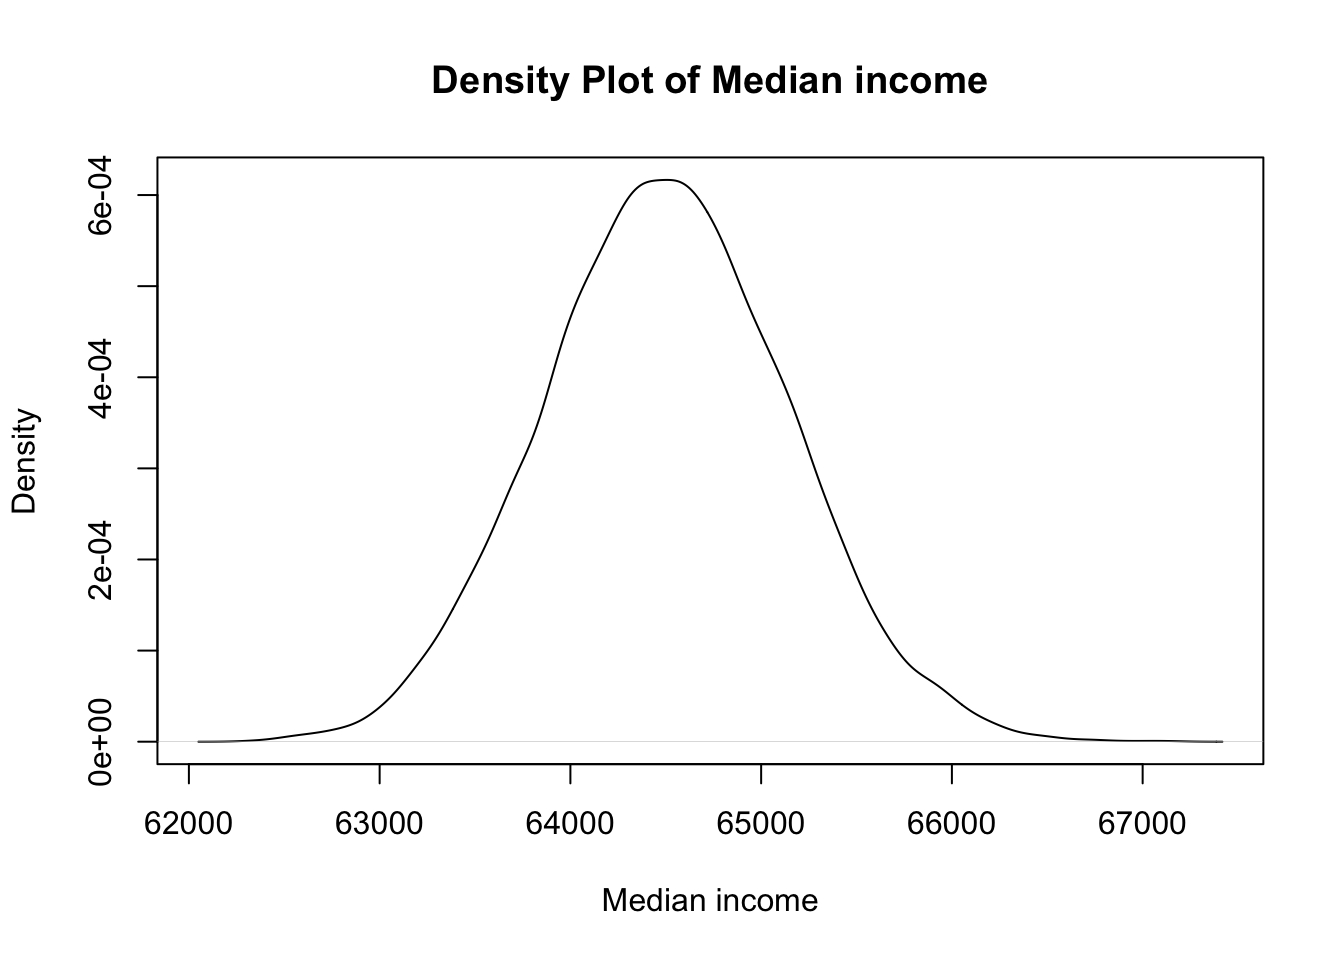
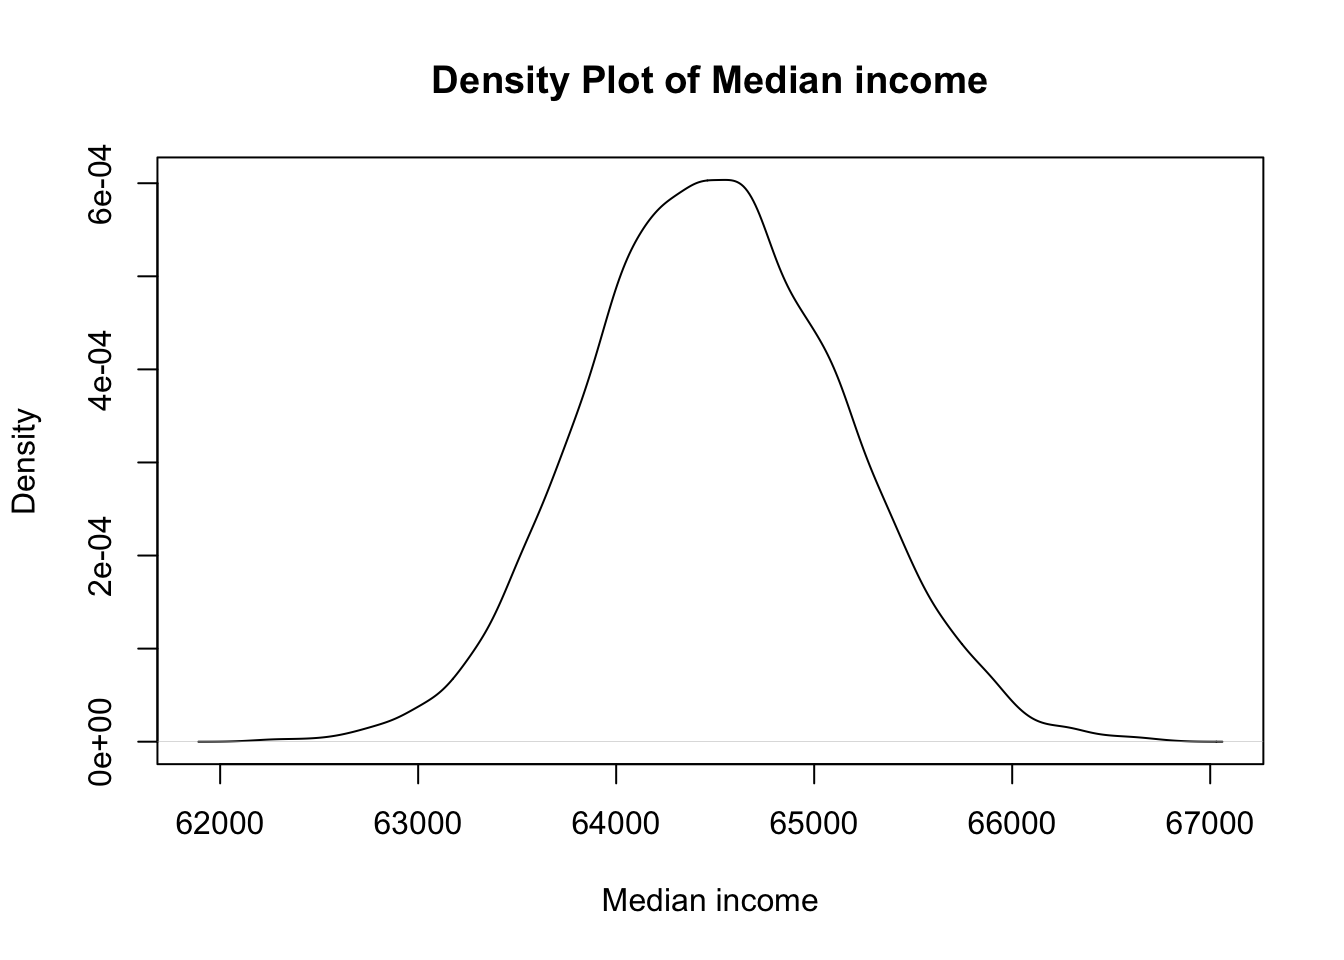
poem

diff --git a/docs/posts/montecarlo.html b/docs/posts/montecarlo.html
@@ -6,7 +6,7 @@
 
 <meta name="viewport" content="width=device-width, initial-scale=1.0, user-scalable=yes">
 
-<meta name="dcterms.date" content="2024-12-13">
+<meta name="dcterms.date" content="2024-12-14">
 
 <title>Income distribution – knotes</title>
 <style>
@@ -2106,7 +2106,7 @@ window.Quarto = {
     <div>
     <div class="quarto-title-meta-heading">Published</div>
     <div class="quarto-title-meta-contents">
-      <p class="date">December 13, 2024</p>
+      <p class="date">December 14, 2024</p>
     </div>
   </div>
   
@@ -2244,7 +2244,7 @@ Income distribution is not normal
 </details>
 <div class="cell-output cell-output-stdout">
 <pre><code>     Min.   1st Qu.    Median      Mean   3rd Qu.      Max. 
-2.082e+05 2.961e+05 3.425e+05 8.729e+05 4.345e+05 3.030e+09 </code></pre>
+2.064e+05 2.970e+05 3.453e+05 1.008e+06 4.359e+05 4.032e+09 </code></pre>
 </div>
 <details open="" class="code-fold">
 <summary>Code</summary>
@@ -2252,7 +2252,7 @@ Income distribution is not normal
 </details>
 <div class="cell-output cell-output-stdout">
 <pre><code>   Min. 1st Qu.  Median    Mean 3rd Qu.    Max. 
-  62324   64070   64500   64503   64932   67144 </code></pre>
+  62165   64058   64489   64500   64936   66787 </code></pre>
 </div>
 <details open="" class="code-fold">
 <summary>Code</summary>
@@ -2260,7 +2260,7 @@ Income distribution is not normal
 </details>
 <div class="cell-output cell-output-stdout">
 <pre><code>     Min.   1st Qu.    Median      Mean   3rd Qu.      Max. 
-9.543e+05 3.351e+06 5.559e+06 5.793e+07 1.157e+07 3.029e+11 </code></pre>
+9.073e+05 3.363e+06 5.747e+06 7.136e+07 1.180e+07 4.031e+11 </code></pre>
 </div>
 </div>
 </section>

diff --git a/docs/posts.html b/docs/posts.html
@@ -2241,9 +2241,9 @@ Categories
 <span class="listing-categories">technology, ev</span>
 </td>
 </tr>
-<tr data-index="5" data-categories="TW9udGUlMjBDYXJsbyUyMHNpbXVsYXRpb24lMkNlY29ub21pY3M=" data-listing-date-sort="1734028200000" data-listing-file-modified-sort="1716203287606" data-listing-date-modified-sort="NaN" data-listing-reading-time-sort="8" data-listing-word-count-sort="1412" data-listing-title-sort="Income distribution" data-listing-filename-sort="montecarlo.qmd">
+<tr data-index="5" data-categories="TW9udGUlMjBDYXJsbyUyMHNpbXVsYXRpb24lMkNlY29ub21pY3M=" data-listing-date-sort="1734114600000" data-listing-file-modified-sort="1716203287606" data-listing-date-modified-sort="NaN" data-listing-reading-time-sort="8" data-listing-word-count-sort="1412" data-listing-title-sort="Income distribution" data-listing-filename-sort="montecarlo.qmd">
 <td>
-<span class="listing-date">Dec 13, 2024</span>
+<span class="listing-date">Dec 14, 2024</span>
 </td>
 <td>
 <a href="./posts/montecarlo.html" class="title listing-title">Income distribution</a>
@@ -2255,7 +2255,7 @@ Categories
 <span class="listing-categories">Monte Carlo simulation, economics</span>
 </td>
 </tr>
-<tr data-index="6" data-listing-file-modified-sort="1734078580840" data-listing-reading-time-sort="1" data-listing-word-count-sort="34" data-listing-title-sort="Just stuck" data-listing-filename-sort="pm.qmd">
+<tr data-index="6" data-listing-file-modified-sort="1734140389483" data-listing-reading-time-sort="1" data-listing-word-count-sort="34" data-listing-title-sort="Just stuck" data-listing-filename-sort="pm.qmd">
 <td>
 <span class="listing-date">&nbsp;</span>
 </td>

diff --git a/docs/Catallactics/Personal/pricing.html b/docs/Catallactics/Personal/pricing.html
@@ -6,7 +6,7 @@
 
 <meta name="viewport" content="width=device-width, initial-scale=1.0, user-scalable=yes">
 
-<meta name="dcterms.date" content="2024-12-13">
+<meta name="dcterms.date" content="2024-12-14">
 
 <title>Hedge pricing – knotes</title>
 <style>
@@ -2062,7 +2062,7 @@ cookieconsent.run({
     <div>
     <div class="quarto-title-meta-heading">Published</div>
     <div class="quarto-title-meta-contents">
-      <p class="date">December 13, 2024</p>
+      <p class="date">December 14, 2024</p>
     </div>
   </div>
   
@@ -2108,7 +2108,7 @@ cookieconsent.run({
 <span id="cb2-3"><a href="#cb2-3" aria-hidden="true" tabindex="-1"></a>closing_price</span></code><button title="Copy to Clipboard" class="code-copy-button"><i class="bi"></i></button></pre></div>
 </details>
 <div class="cell-output cell-output-stdout">
-<pre><code>[1] 24548.7</code></pre>
+<pre><code>[1] 24768.3</code></pre>
 </div>
 </div>
 </section>

diff --git a/docs/Biomedical/Research Methodology/wrangling.html b/docs/Biomedical/Research Methodology/wrangling.html
@@ -3538,11 +3538,11 @@ Record
 <div class="cell-output cell-output-stdout">
 <pre><code>     age   sex  class
    &lt;int&gt; &lt;int&gt; &lt;fctr&gt;
-1:     1     0  child
+1:     1     1  child
 2:     2     0  child
 3:     3     0  child
-4:     4     0  child
-5:     5     1  child
+4:     4     1  child
+5:     5     0  child
 6:     6     1  child</code></pre>
 </div>
 </div>
@@ -3561,11 +3561,11 @@ Record
 <pre><code>Key: &lt;age&gt;
      age      0      1
    &lt;int&gt; &lt;fctr&gt; &lt;fctr&gt;
-1:     1  child   &lt;NA&gt;
+1:     1   &lt;NA&gt;  child
 2:     2  child   &lt;NA&gt;
 3:     3  child   &lt;NA&gt;
-4:     4  child   &lt;NA&gt;
-5:     5   &lt;NA&gt;  child
+4:     4   &lt;NA&gt;  child
+5:     5  child   &lt;NA&gt;
 6:     6   &lt;NA&gt;  child</code></pre>
 </div>
 </div>

diff --git a/docs/Catallactics/Personal/IMA SSS.html b/docs/Catallactics/Personal/IMA SSS.html
@@ -6,7 +6,7 @@
 
 <meta name="viewport" content="width=device-width, initial-scale=1.0, user-scalable=yes">
 
-<meta name="dcterms.date" content="2024-12-13">
+<meta name="dcterms.date" content="2024-12-14">
 
 <title>IMA SSS – knotes</title>
 <style>
@@ -2031,7 +2031,7 @@ cookieconsent.run({
     <div>
     <div class="quarto-title-meta-heading">Published</div>
     <div class="quarto-title-meta-contents">
-      <p class="date">December 13, 2024</p>
+      <p class="date">December 14, 2024</p>
     </div>
   </div>
   

diff --git a/docs/posts/pm.html b/docs/posts/pm.html
@@ -2018,10 +2018,10 @@ cookieconsent.run({
 
 
 <blockquote class="blockquote">
-<p><em>I look all around,</em></p>
+<p><em>He looks all around,</em></p>
 <p><em>Looking the right, left, up, and down,</em></p>
 <p><em>Searching earnestly for enablers.</em></p>
-<p><em>But all I find are taskmasters and pretenders—</em></p>
+<p><em>But all he finds are taskmasters and pretenders—</em></p>
 <p><em>Imposters abound,</em></p>
 <p><em>Thriving in a hollow dance of autistic exchange.</em></p>
 </blockquote>
